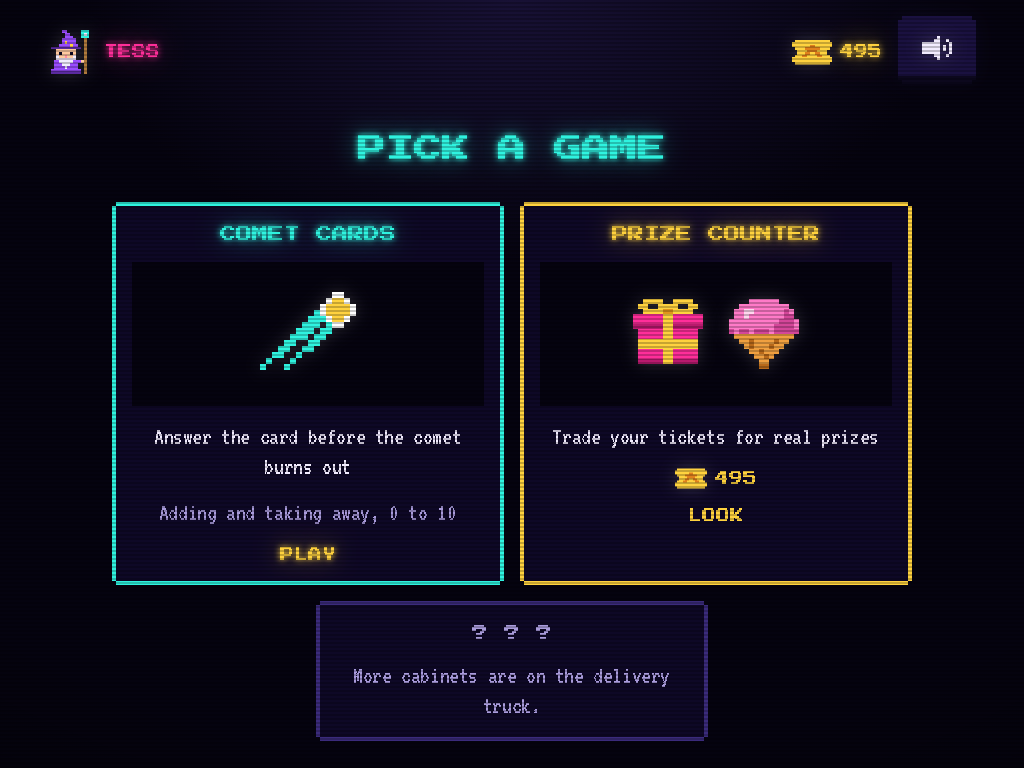
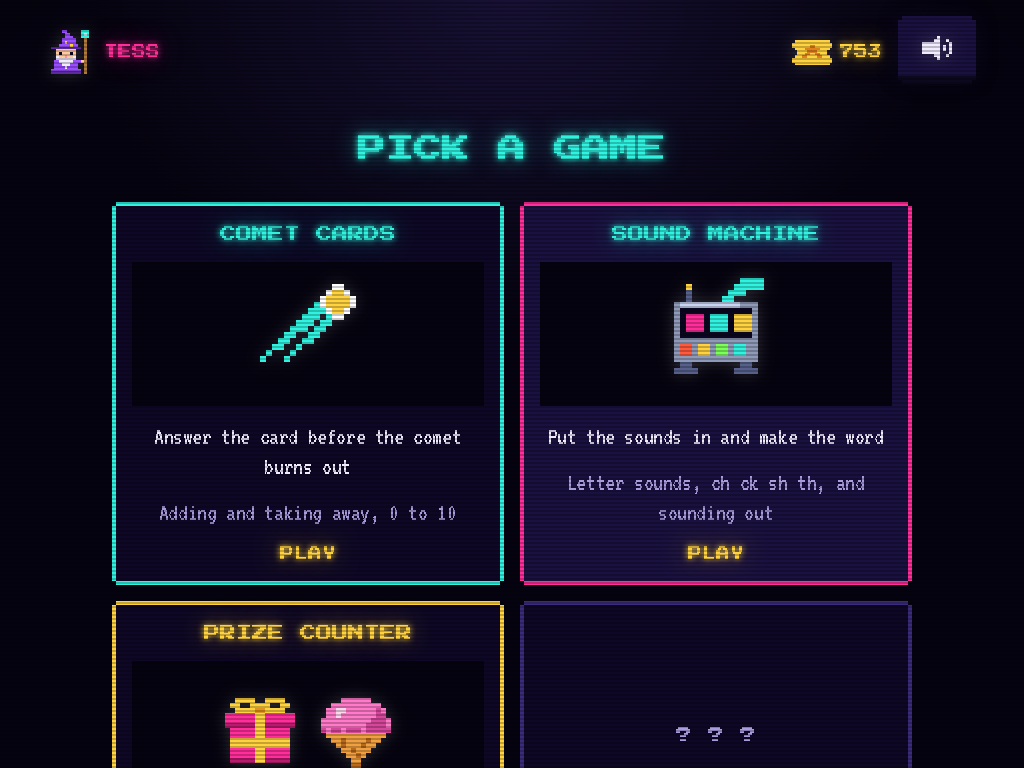
README: the floor with two cabinets, and Sound Machine's Build it and Split it

Changed region(s): [[0.0938, 0.25, 0.9062, 1.0], [0.25, 0.375, 0.3438, 0.5], [0.8125, 0.0625, 0.8438, 0.0938]]

diff --git a/README.md b/README.md
@@ -34,10 +34,10 @@ magenta and yellow. [`docs/PRD.md`](docs/PRD.md) has the whole design.
       <p>A player is a name and a pixel character: an alien, a dinosaur, a robot, a monster, a wizard, a dragon, a ghost, a rocket, a cat, an owl, a frog or a cupcake, each in six colours. Tickets, badges and unlocked levels belong to the player; the high score tables show everyone.</p>
     </td>
     <td width="50%" valign="top">
-      <img src="docs/screenshots/floor.png" alt="The arcade floor: the Comet Cards cabinet, the Prize Counter, and a crate marked with question marks" width="100%">
-      <br><sub><i>The floor: one cabinet so far, and more on the delivery truck.</i></sub>
+      <img src="docs/screenshots/floor.png" alt="The arcade floor: the Comet Cards and Sound Machine cabinets side by side, with the Prize Counter and a crate marked with question marks below them" width="100%">
+      <br><sub><i>The floor: two cabinets so far, and more on the delivery truck.</i></sub>
       <h3>An arcade floor</h3>
-      <p>Each cabinet drills one idea until recall is fast. The first is <b>Comet Cards</b>: adding and taking away, 0 to 10. The second is <b>Sound Machine</b>, for letter sounds and the digraphs ch, ck, sh and th, with nothing timed and every sound spoken: <i>Build it</i> (hear a word, put its sound tiles in order), <i>Read it</i> (sound out a word, find its picture) and <i>Split it</i> (cut a word into its sounds, a gem for each: "ship" is four letters but three gems). New cabinets plug into the same players, tickets and badges.</p>
+      <p>Each cabinet drills one idea until recall is fast. The first is <b>Comet Cards</b>: adding and taking away, 0 to 10. The second is <b>Sound Machine</b>: letter sounds and sounding out short words. New cabinets plug into the same players, tickets and badges.</p>
     </td>
   </tr>
   <tr>
@@ -52,6 +52,20 @@ magenta and yellow. [`docs/PRD.md`](docs/PRD.md) has the whole design.
       <br><sub><i>Five levels, four ways to play, two skills.</i></sub>
       <h3>Levels and modes</h3>
       <p>Five levels from Add to 5 up to Big Sums; a star on one opens the next. Blitz is 60 seconds, Sprint is 20 cards, Survival is three lives, and Practice has no clock at all. Every combination keeps its own high score table.</p>
+    </td>
+  </tr>
+  <tr>
+    <td width="50%" valign="top">
+      <img src="docs/screenshots/sound-machine-build.png" alt="A Sound Machine Build it round: a picture of an axe chopping a log, buttons to hear the word and hear it slowly, the tiles ch and o in the first two of three boxes, and the tile p left in the tray" width="100%">
+      <br><sub><i>Build it: hear "chop", put its sounds in the boxes.</i></sub>
+      <h3>Sound Machine</h3>
+      <p>Letter sounds and the digraphs ch, ck, sh and th, over six levels. Every word has three sounds, and a digraph is one tile. In <i>Build it</i> you hear a word and put its sound tiles in order. In <i>Read it</i> you sound out a word and find its picture. Every sound is spoken and nothing is timed. A wrong answer shows the right one and takes nothing away.</p>
+    </td>
+    <td width="50%" valign="top">
+      <img src="docs/screenshots/sound-machine-split.png" alt="A Split it round on the sh level: a picture of a fish, the word fish cut once into f and ish, three empty gem slots, and a tray holding six gems from the words before" width="100%">
+      <br><sub><i>Split it: four letters, three sounds, a gem for each.</i></sub>
+      <h3>A gem a sound</h3>
+      <p>In <i>Split it</i> a word comes up whole. Tap between its letters to cut it where one sound ends and the next begins, then pull the lever. "Fish" is four letters but three sounds, so it earns three gems. The gems fill a tray for the round and are counted up on the results screen.</p>
     </td>
   </tr>
   <tr>
